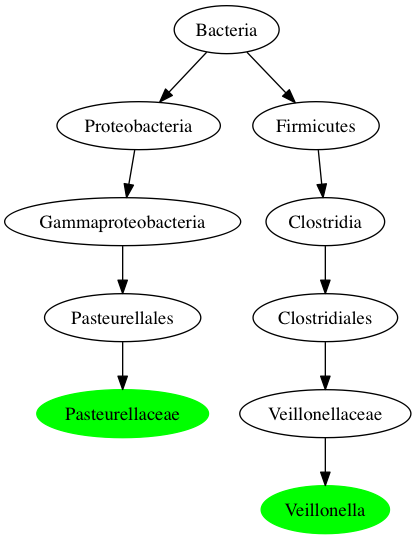
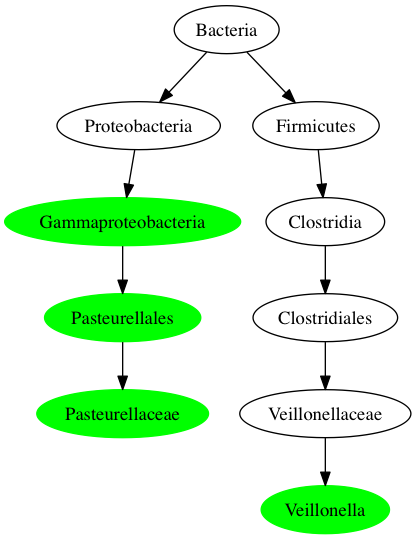
Added co-excluded nodes as red from phylographer

Changed region(s): [[0.0, 0.3562, 0.5938, 0.475], [0.0938, 0.5343, 0.5, 0.6531]]

diff --git a/bin/preprocessing/tree.py b/bin/preprocessing/tree.py
@@ -55,13 +55,19 @@ class Node(object):
 
             return xml
 
-    def digraph_to_ancestor(self, ancestor):
+    def digraph_to_ancestor(self, ancestor, co_excluded=[]):
 
-        if self.tag:
-            return ''
+        # if self.tag:
+        #
+        #     return ''
 
+        color = 'green'
+        if self.name in co_excluded:
+            color = 'red'
         # Node names are not unique so use the label to set the node text
-        s = '\t%s [label="%s", color="green", style=filled];\n' % (self.name.replace("|","").replace('/',''), self.name.split('|')[-1].replace('/',''))
+        unique_node_name = self.name.replace("|","").replace('/','')
+        node_label = self.name.split('|')[-1].replace('/','')
+        s = '\t%s [label="%s", color="%s", style=filled];\n' % (unique_node_name, node_label, color)
 
         node = self
         while node != ancestor:
@@ -475,7 +481,7 @@ class Tree(object):
             node.meta_data = ''
 
 
-    def dot_graph_for_clades(self, clades):
+    def dot_graph_for_clades(self, clades, co_excluded=[]):
         """
         Specialized method to produce a digraph
         file for the dot program in graphviz.
@@ -530,7 +536,7 @@ class Tree(object):
         ancestor = least_common_ancestor.pop()
         digraph = 'digraph G { \n'
         for node in nodes:
-            digraph += node.digraph_to_ancestor(ancestor)
+            digraph += node.digraph_to_ancestor(ancestor, co_excluded)
         digraph += '\n }'
 
         self.clear_node_tags()

diff --git a/bin/scratchpad.py b/bin/scratchpad.py
@@ -370,6 +370,7 @@ def clade_table():
 
 # clade_table()
 
+
 def clade_pair_abundances():
     from utils.files import parse_header_file, parse_dat_file
     from itemsets import to_index_list
@@ -393,7 +394,21 @@ def clade_pair_abundances():
 
     plot_clades_relationships(clades, '../experiments/1/plots/')
 
+
 # clade_pair_abundances()
+def plot_clades_pairwise(clades):
+    from plots.clade_correlation import plot_clades_relationships
+    from itertools import combinations
+    clade_pairs = []
+
+    for clade1, clade2 in combinations(clades, 2):
+        clade_pairs.append((clade1, clade2))
+
+
+    plot_clades_relationships(clade_pairs, '../experiments/1/plots/k2/')
+
+clades = ['Bacteria|Bacteroidetes', 'Bacteroidia|Bacteroidales', 'Bacteroidetes|Bacteroidia', 'Bacteroidales|Bacteroidaceae', 'Bacteroidaceae|Bacteroides', 'Tenericutes|Mollicutes']
+plot_clades_pairwise(clades)
 
 def plot_clades():
     from plots.clade_correlation import plot_clades_relationships

diff --git a/bin/phylographer.py b/bin/phylographer.py
@@ -68,7 +68,11 @@ def main(argv):
     for index, itemset in enumerate(summary):
         # Append extra set of headeres for negated values
         clade_names = itemsets.to_index_list(itemset, list(headers) + list(headers))
-        di_graph = tree.dot_graph_for_clades(clade_names)
+        co_ex = itemset >> len(headers)
+        co_excluded_clade = ''
+        if co_ex != 0:
+            co_excluded_clade = itemsets.to_index_list(co_ex, list(headers) + list(headers))
+        di_graph = tree.dot_graph_for_clades(clade_names, co_excluded_clade)
         file_name = os.path.join(output_folder, str(index))
         graph_file = file_name + '.ps'
         with open(graph_file, 'wb') as fd:
